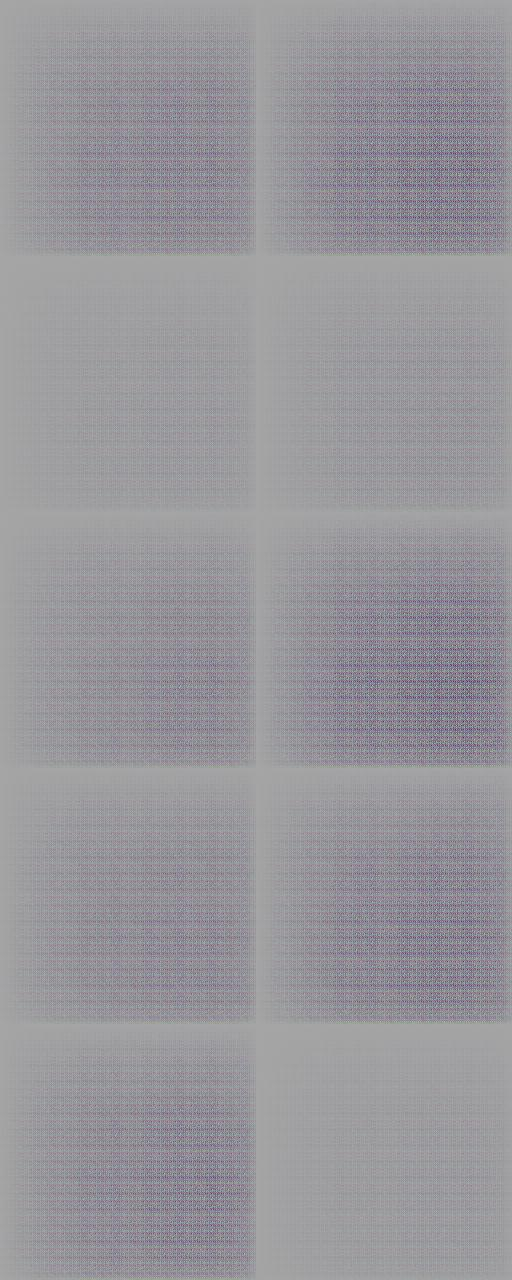
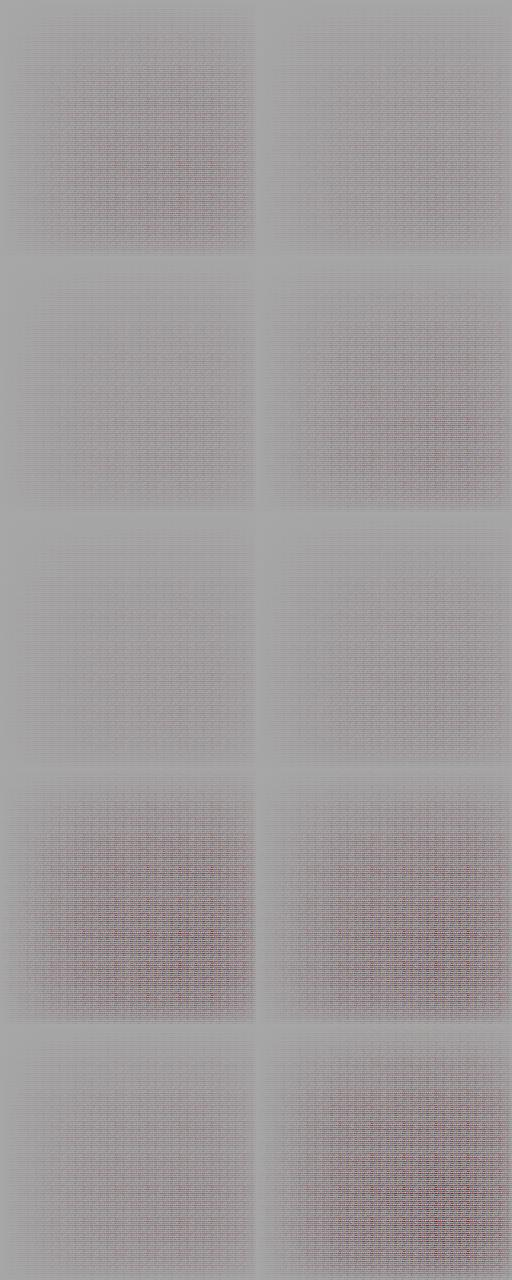
FINALLY generating images!

diff --git a/generate.py b/generate.py
@@ -1,0 +1,81 @@
+import main
+import os
+import tensorflow as tf
+import numpy as np
+from scipy.misc import imsave as ims
+from utils import merge
+
+with tf.Session() as sess:
+	saver = tf.train.import_meta_graph('training/train-808.meta')
+	# model = main.LatentAttention()
+	# sess.run(tf.global_variables_initializer())
+	saver.restore(sess, tf.train.latest_checkpoint(os.getcwd() + '/training'))
+
+	op = sess.graph.get_operations()
+	print([m.values() for m in op][1])
+
+	for i in tf.get_collection(tf.GraphKeys.GLOBAL_VARIABLES):
+		print(i)   # i.name if you want just a name
+
+	print(sess.run('recognition/d_h1/w:0'))
+
+
+
+	graph = tf.get_default_graph()
+
+
+
+
+
+	dense_w = graph.get_tensor_by_name('generation/z_matrix/Matrix:0') # shape=(40, 4096) dtypeefloat32_ref>
+	dense_b = graph.get_tensor_by_name('generation/z_matrix/bias:0') # shape=(4096,) dtype=eloat32_ref>
+	conv1_w = graph.get_tensor_by_name('generation/g_h1/w:0') # shape=(5, 5, 512, 1024) dtype=loat32_ref>
+	conv1_b = graph.get_tensor_by_name('generation/g_h1/b:0') # shape=(512,) dtype=float32_ref>
+	conv2_w = graph.get_tensor_by_name('generation/g_h2/w:0') # shape=(5, 5, 256, 512) dtype=float32_ref>
+	conv2_b = graph.get_tensor_by_name('generation/g_h2/b:0') # shape=(256,) dtype=float32_ref>
+	conv3_w = graph.get_tensor_by_name('generation/g_h3/w:0') # shape=(5, 5, 128, 256) dtype=float32_ref>
+	conv3_b = graph.get_tensor_by_name('generation/g_h3/b:0') # shape=(128,) dtype=float32_ref>
+	conv4_w = graph.get_tensor_by_name('generation/g_h4/w:0') # shape=(5, 5, 64, 128) dtype=float32_ref>
+	conv4_b = graph.get_tensor_by_name('generation/g_h4/b:0') # shape=(64,) dtype=float32_ref>
+	conv5_w = graph.get_tensor_by_name('generation/g_h5/w:0') # shape=(5, 5, 32, 64) dtype=float32_ref>
+	conv5_b = graph.get_tensor_by_name('generation/g_h5/b:0') # shape=(32,) dtype=float32_ref>
+	conv6_w = graph.get_tensor_by_name('generation/g_h6/w:0') # shape=(5, 5, 16, 32) dtype=float32_ref>
+	conv6_b = graph.get_tensor_by_name('generation/g_h6/b:0') # shape=(16,) dtype=float32_ref>
+	conv7_w = graph.get_tensor_by_name('generation/g_h7/w:0') # shape=(5, 5, 3, 16) dtype=float32_ref>
+	conv7_b = graph.get_tensor_by_name('generation/g_h7/b:0') # shape=(3,) dtype=float32_ref>
+
+
+	def generate_from_z(z): # z is Nx40
+		N = 10
+		print("This many images being generated:", N)
+		z_develop = tf.matmul(z, dense_w) + dense_b # N x 4096
+		z_matrix = tf.nn.relu(tf.reshape(z_develop, [N, 2, 2, 1024]))
+
+		h1 = tf.nn.relu(tf.nn.conv2d_transpose(z_matrix, conv1_w, output_shape=[N, 4, 4, 512], strides=[1,2,2,1]))
+		h2 = tf.nn.relu(tf.nn.conv2d_transpose(h1, conv2_w, output_shape=[N, 8, 8, 256], strides=[1,2,2,1]))
+		h3 = tf.nn.relu(tf.nn.conv2d_transpose(h2, conv3_w, output_shape=[N, 16, 16, 128], strides=[1,2,2,1]))
+		h4 = tf.nn.relu(tf.nn.conv2d_transpose(h3, conv4_w, output_shape=[N, 32, 32, 64], strides=[1,2,2,1]))
+		h5 = tf.nn.relu(tf.nn.conv2d_transpose(h4, conv5_w, output_shape=[N, 64, 64, 32], strides=[1,2,2,1]))
+		h6 = tf.nn.relu(tf.nn.conv2d_transpose(h5, conv6_w, output_shape=[N, 128, 128, 16], strides=[1,2,2,1]))
+		h7 = tf.nn.sigmoid(tf.nn.conv2d_transpose(h6, conv7_w, output_shape=[N, 256, 256, 3], strides=[1,2,2,1]))
+
+		return h7
+
+
+
+	# model.list_all_training_images('./data')
+
+	# batch = model.get_training_images(10)
+	# print("One image from batch:", batch[0])
+	my_z = tf.truncated_normal([10,40], 0.0, 1.0)
+	generated_images = generate_from_z(my_z)
+
+	print(generated_images.get_shape().as_list())
+	
+
+	# generated_images = sess.run(model.generated_images, feed_dict={model.images: batch})
+	# print(generated_images.shape)
+	ims('my_generated_images.jpg', merge(generated_images.eval(), [5,2]))
+
+	# print("One image:", generated_images[0])
+

diff --git a/main.py b/main.py
@@ -13,23 +13,23 @@ class LatentAttention():
         self.n_samples = 0 #set later
 
         self.n_hidden = 500
-        self.n_z = 20
+        self.n_z = 40
         self.batchsize = 10
         self.so_far = 0 #how far we've gotten in the set
-        self.my_images = self.list_all_training_images('./data')
+        self.my_images = [] # later set to self.list_all_training_images('./data')
 
         self.images = tf.placeholder(tf.float32, [None, 256*256*3])
         image_matrix = tf.reshape(self.images,[-1, 256, 256, 3])
         z_mean, z_stddev = self.recognition(image_matrix)
         samples = tf.random_normal([self.batchsize,self.n_z], 0, 1, dtype=tf.float32)
-        guessed_z = z_mean + (z_stddev * samples)
+        self.guessed_z = z_mean + (z_stddev * samples)
 
-        self.generated_images = self.generation(guessed_z)
+        self.generated_images = self.generation(self.guessed_z)
         generated_flat = tf.reshape(self.generated_images, [self.batchsize, 256*256*3])
 
-        self.generation_loss = -tf.reduce_sum(self.images * tf.log(1e-8 + generated_flat) + (1-self.images) * tf.log(1e-8 + 1 - generated_flat),1)
+        self.generation_loss = -tf.reduce_sum(self.images * tf.log(1e-6 + generated_flat) + (1-self.images) * tf.log(1e-6 + 1 - generated_flat),1)
 
-        self.latent_loss = 0.5 * tf.reduce_sum(tf.square(z_mean) + tf.square(z_stddev) - tf.log(tf.square(z_stddev)) - 1,1)
+        self.latent_loss = 0.5 * tf.reduce_sum(tf.square(z_mean) + tf.square(z_stddev) - tf.log(1e-6 + tf.square(z_stddev)) - 1,1)
         self.cost = tf.reduce_mean(self.generation_loss + self.latent_loss)
         self.optimizer = tf.train.AdamOptimizer(0.001).minimize(self.cost)
 
@@ -104,6 +104,7 @@ class LatentAttention():
         return h7
 
     def train(self):
+        self.my_images = self.list_all_training_images('./data')
         visualization = self.get_training_images(self.batchsize)
         reshaped_vis = visualization.reshape(self.batchsize, 256, 256, 3)
         ims("results/base.jpg", merge(reshaped_vis, [5,2]))
@@ -111,7 +112,7 @@ class LatentAttention():
         saver = tf.train.Saver(max_to_keep=2)
         with tf.Session() as sess:
             sess.run(tf.initialize_all_variables())
-            for epoch in range(10):
+            for epoch in range(1000):
                 for idx in range(int(self.n_samples / self.batchsize)):
                     #batch = self.mnist.train.next_batch(self.batchsize)[0]
                     
@@ -126,6 +127,6 @@ class LatentAttention():
                         generated_test = generated_test.reshape(self.batchsize, 256, 256, 3)
                         ims("results/"+str(epoch)+".jpg",merge(generated_test, [5,2]))
 
-
-model = LatentAttention()
-model.train()
+if __name__ == '__main__':
+	model = LatentAttention()
+	model.train()
